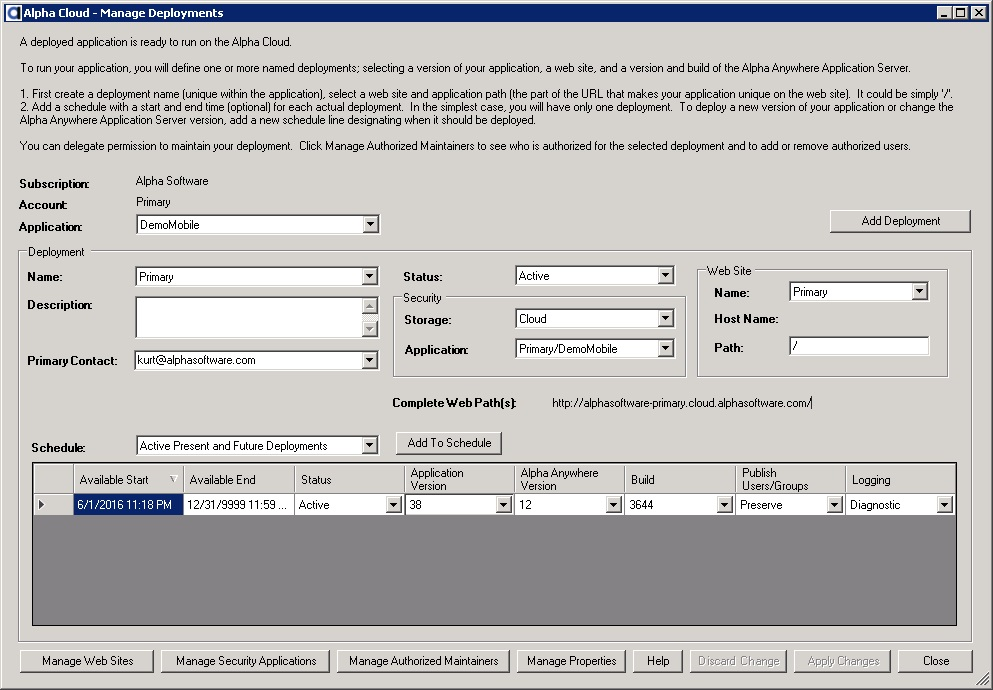
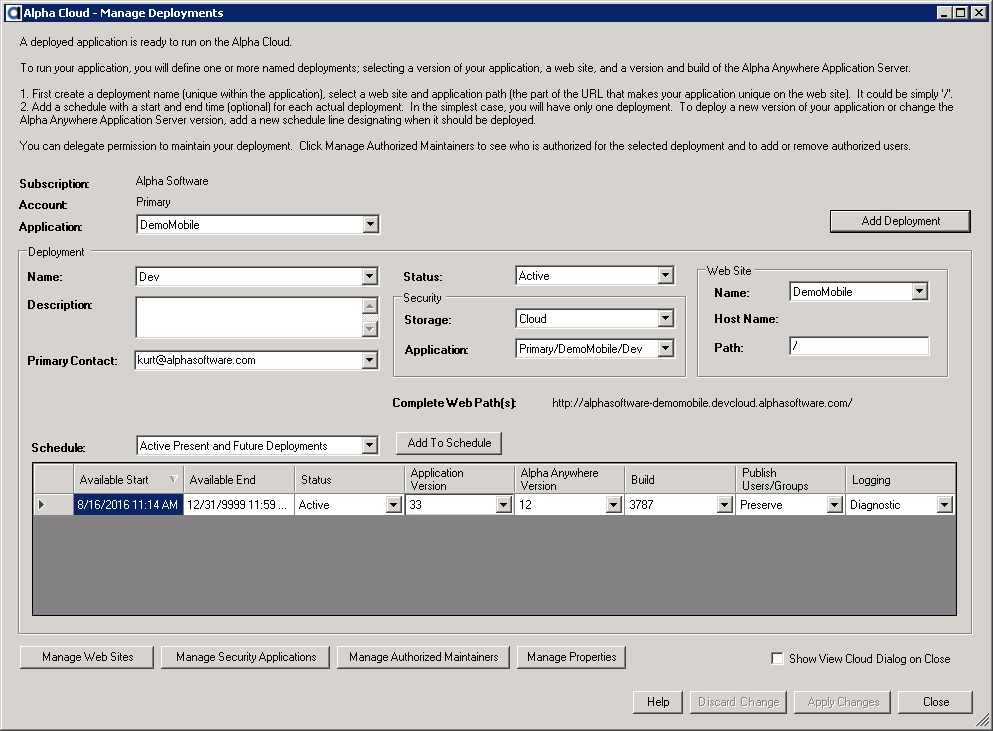
Alpha Cloud - Manage Deployments Dialog Update screen shots and text for new checkbox that opens Cloud View dialog.

diff --git a/helpfiles/Guides/Beta Software/Alpha Cloud/Alpha Anywhere Developers Guide/Managing Deployments.html b/helpfiles/Guides/Beta Software/Alpha Cloud/Alpha Anywhere Developers Guide/Managing Deployments.html
@@ -199,6 +199,9 @@ The deployment header must be created in order to schedule deployment of your ap
 			</ol>
 		</p></li>
 
+	<li><strong>Note:</strong> If you check the box entitled <strong>Show View Cloud Dialog On Close</strong> that dialog will open when you close the <strong>Manage Deployments Dialog</strong>.  
+	If you have just scheduled an active deployment you checking the box saves a few mouse clicks if you want to check on the status of that deployment.
+	</li>
 <br/>
 <img border="0" src="ScreenShots/AlphaCloudManageDeployments60pct.jpg">
 <p class="fullsizeimagelink"><a href="ScreenShots/AlphaCloudManageDeployments.jpg">View a Full Sized Image</a></p>
